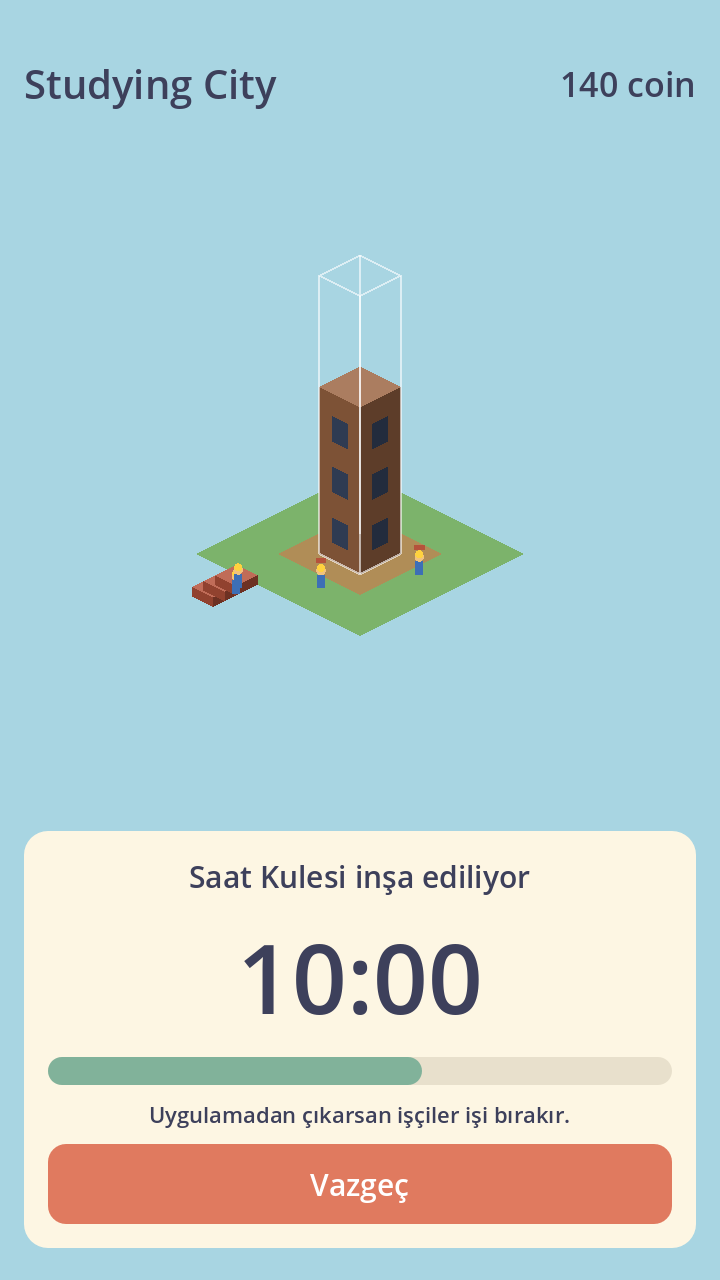
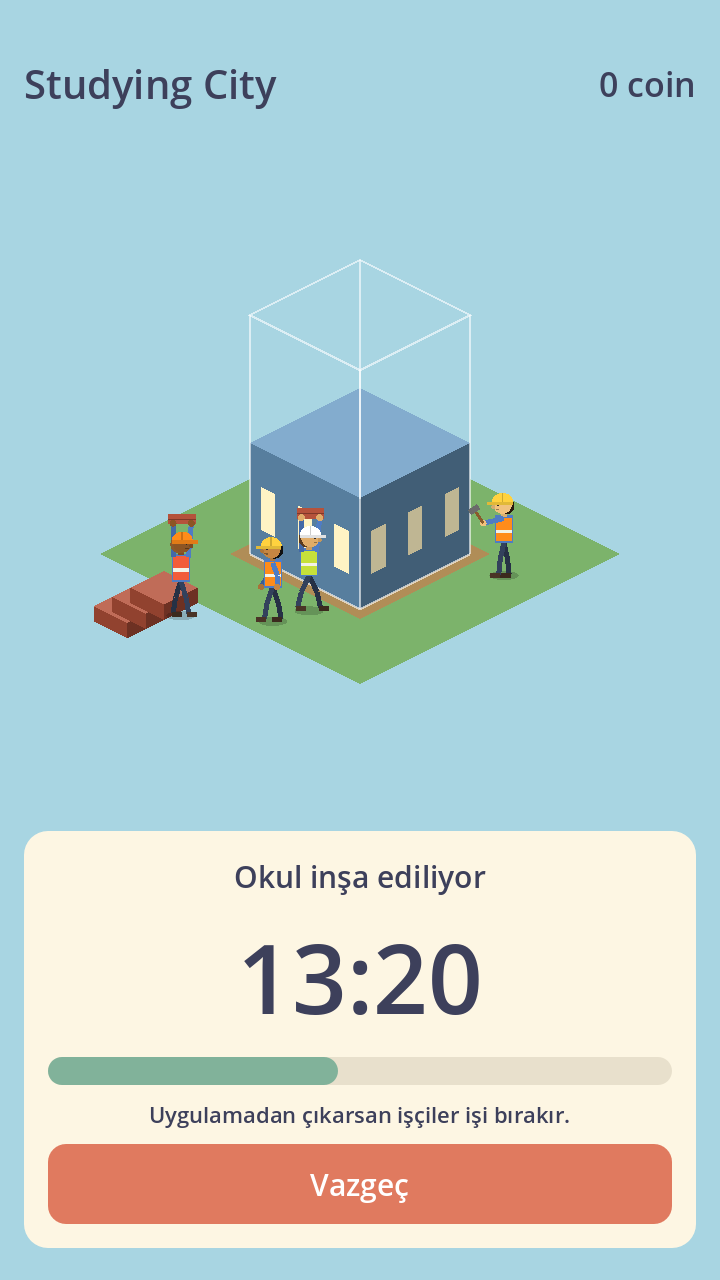
Draw construction workers as people
worker_art.gd draws each worker with a hard hat, high-vis vest, face,
hair, arms and walking legs. Three workers carry bricks overhead from
the pile and walk back empty-handed (legs move only while walking); one
hammers next to the building. Skin, vest and hat colours vary per worker.
Asset packs (Kenney Toon Characters, CC0) were researched but the asset
hosts are not reachable from the build environment; noted in PLAN.md.

Claude-Session: https://claude.ai/code/session_01JPEs1dQobnafdo9c8kEBgf

diff --git a/docs/PLAN.md b/docs/PLAN.md
@@ -49,6 +49,15 @@
 ## Bina çizimleri
 Her binanın kendine özgü çizimi var (`scripts/building_art.gd`): evde kiremit çatı, kafede çizgili tente ve kapı, parkta ağaçlar ve patika, kütüphanede sütunlar, okulda bayrak, saat kulesinde saat ve sivri çatı. İnşaat sırasında gövde ve pencereler yükselir, çatı ve süslemeler bina bitince gelir.
 
+## İşçiler
+İşçiler kodla çiziliyor (`scripts/worker_art.gd`): baret, reflektörlü yelek, yüz, saç, kollar ve bacaklar. Üç işçi yığından binaya başlarının üstünde tuğla taşıyıp boş elle dönüyor, bacakları yalnızca yürürken hareket ediyor. Biri binanın yanında çekiçle çalışıyor. Ten, yelek ve baret renkleri işçiden işçiye değişiyor.
+
+Hazır asset seçenekleri (araştırma, 2026-10-03):
+- Kenney "Toon Characters 1" (CC0, atıf gerekmez): yan görünüşlü insan karakterler, yürüme kareleri ve tutma pozları. İşçiler için en uygun aday.
+- Kenney "Animated Characters" serisi (CC0).
+- LPC karakter üretici (CC-BY-SA / GPL, atıf ve paylaşım şartı var).
+Bu ortamın ağ politikası kenney.nl, itch.io ve opengameart.org'u engellediği için paketler indirilemedi. Paket projeye yüklenirse `worker_art.gd` yerine sprite animasyonu kullanılabilir.
+
 ## Android
 `export_presets.cfg` içinde Android preset'i var (paket adı `com.emrecanberktas.studyingcity`, arm64 + armv7, Gradle'sız). Debug APK, Godot'nun hazır şablonuyla derlenir ve debug anahtarıyla imzalanır; Play Store için ayrı bir release anahtarı gerekir.
 

diff --git a/README.md b/README.md
@@ -17,6 +17,7 @@ godot --headless --path . -s res://tests/test_power_saver.gd
 - `scripts/buildings.gd` — bina kataloğu (fiyat, renk, yükseklik)
 - `scripts/main.gd` — arayüz (kodla kuruluyor), mağaza ve sonuç pencereleri
 - `scripts/map_view.gd` — izometrik şehir haritası: kaydırma, yakınlaştırma, bina taşıma
+- `scripts/worker_art.gd` — inşaat işçilerinin çizimi ve animasyon pozları
 - `scripts/building_art.gd` — binaların çizimleri (çatı, pencere, tente, ağaç, saat)
 - `scripts/build_site.gd` — inşaat alanı ve işçi animasyonu
 - `scripts/power_saver.gd` — pil tasarrufu: FPS sınırları ve eko mod (siyah ekran)
